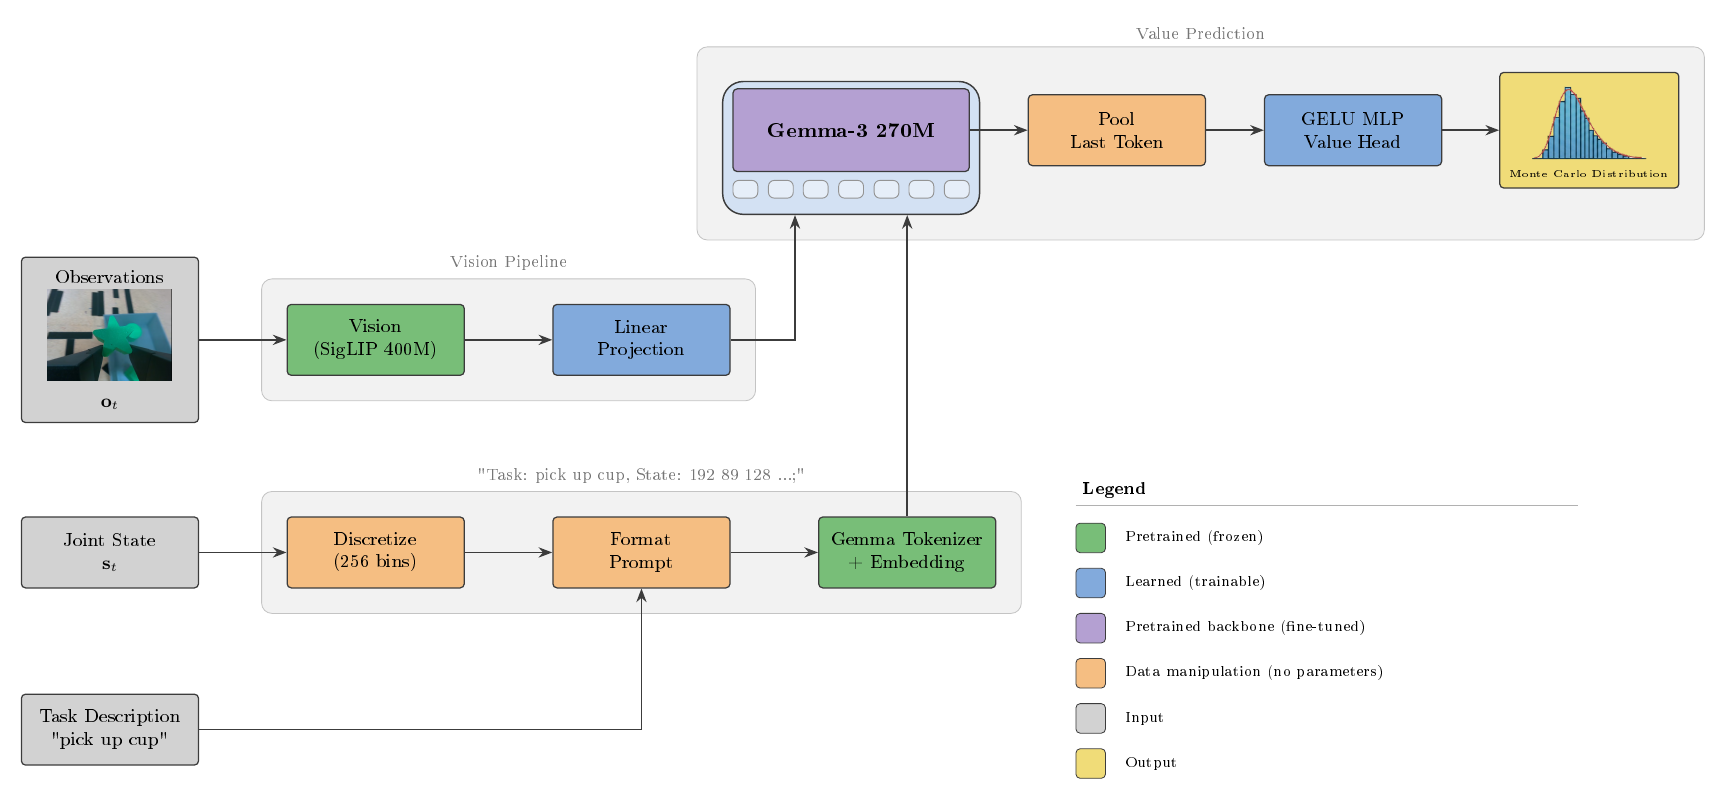
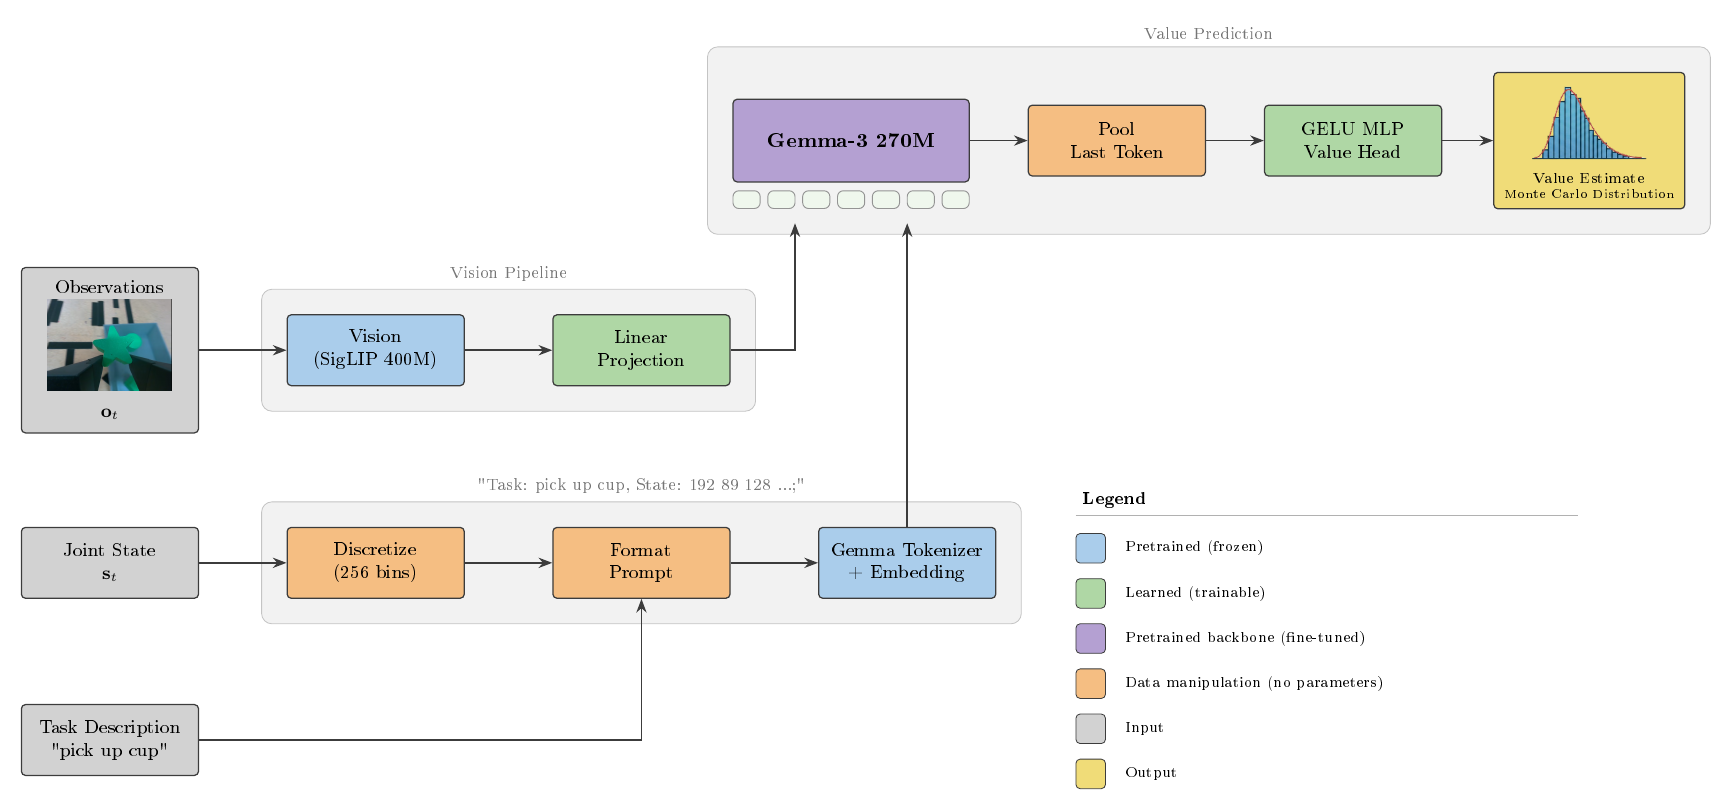
update architecture diagram

diff --git a/docs/diagrams/architecture.tex b/docs/diagrams/architecture.tex
@@ -22,8 +22,8 @@
 % =============================================================================
 % COLOR PALETTE
 % =============================================================================
-\definecolor{pretrainedgreen}{RGB}{120, 190, 120}   % Pretrained (frozen)
-\definecolor{learnedblue}{RGB}{130, 170, 220}        % Learned (trainable)
+\definecolor{pretrainedblue}{RGB}{170, 205, 235}     % Pretrained (frozen)
+\definecolor{learnedgreen}{RGB}{175, 215, 165}       % Learned (trainable)
 \definecolor{functionorange}{RGB}{245, 190, 130}     % Data manipulation (no params)
 \definecolor{inputgray}{RGB}{210, 210, 210}          % Inputs
 \definecolor{backbonepurple}{RGB}{180, 160, 210}     % Pretrained backbone (fine-tuned)
@@ -41,17 +41,12 @@
         line width=0.6pt, font=\small, rounded corners=2pt
     },
     inputbox/.style={base, fill=inputgray},
-    pretrainedbox/.style={base, fill=pretrainedgreen},
-    learnedbox/.style={base, fill=learnedblue},
+    pretrainedbox/.style={base, fill=pretrainedblue},
+    learnedbox/.style={base, fill=learnedgreen},
     functionbox/.style={base, fill=functionorange},
-    tokenframe/.style={
-        draw=arrowblack, fill=learnedblue!35, rounded corners=10pt,
-        minimum width=4.35cm, minimum height=2.25cm,
-        line width=0.7pt
-    },
     tokenpill/.style={
-        draw=arrowblack!55, fill=learnedblue!20,
-        minimum width=0.42cm, minimum height=0.30cm,
+        draw=arrowblack!55, fill=learnedgreen!20,
+        minimum width=0.46cm, minimum height=0.30cm,
         line width=0.45pt, rounded corners=2.8pt
     },
     backbonebox/.style={base, fill=backbonepurple, minimum width=4cm, minimum height=1.4cm, font=\normalsize\bfseries},
@@ -86,17 +81,19 @@
     \node[pretrainedbox] (gemtok) at (18.95, -3.1) {Gemma Tokenizer\\+ Embedding};
 
     % --- Backbone and output ---
-    \node[tokenframe]    (tokenframe) at (18, 3.75) {};
-    \foreach \dx in {-1.79, -1.19, -0.60, 0.00, 0.60, 1.19, 1.79} {
-        \node[tokenpill] at ($(tokenframe.center)+(\dx,-0.70)$) {};
+    \coordinate          (tokenstreamcenter) at (18, 3.75);
+    \node[inner sep=0pt, minimum width=4.00cm, minimum height=0.30cm]
+                         (tokenrow) at ($(tokenstreamcenter)+(0,-0.70)$) {};
+    \foreach \dx in {-1.77, -1.18, -0.59, 0.00, 0.59, 1.18, 1.77} {
+        \node[tokenpill] at ($(tokenrow.center)+(\dx,0)$) {};
     }
     \node[backbonebox]   (gemma)  at (18, 4.05)  {Gemma-3 270M};
     \node[functionbox]   (pool)   at (22.5, 4.05){Pool\\Last Token};
     \node[learnedbox]    (vhead)  at (26.5, 4.05){GELU MLP\\Value Head};
     \node[outputbox, inner sep=5pt, minimum height=0cm, minimum width=0cm] (bins) at (30.5, 4.05)
-        {\includegraphics[width=2cm]{distribution.png}\\[-4pt]{\tiny Monte Carlo Distribution}};
-    \coordinate (visiontokenin) at ($(tokenframe.south)+(-0.95, 0)$);
-    \coordinate (texttokenin) at ($(tokenframe.south)+(0.95, 0)$);
+        {\includegraphics[width=2cm]{distribution.png}\\[-1pt]{\scriptsize Value Estimate}\\[-4pt]{\fontsize{6}{7}\selectfont Monte Carlo Distribution}};
+    \coordinate (visiontokenin) at ($(tokenrow.center)+(-0.95, -0.40)$);
+    \coordinate (texttokenin) at ($(tokenrow.center)+(0.95, -0.40)$);
 
     % =========================================================================
     % EDGES
@@ -130,7 +127,7 @@
               fit=(disc)(format)(gemtok), inner sep=12pt,
               label={[grouplabel]above:"Task: pick up cup, State: 192 89 128 ...;"}] {};
         \node[draw=arrowblack!30, rounded corners=5pt, fill=groupgray!50,
-              fit=(tokenframe)(gemma)(pool)(vhead)(bins), inner sep=12pt,
+              fit=(tokenrow)(gemma)(pool)(vhead)(bins), inner sep=12pt,
               label={[grouplabel]above:Value Prediction}] {};
     \end{scope}
 
@@ -140,12 +137,12 @@
     \node[anchor=north west, font=\footnotesize\bfseries] (ltitle) at (21.8, -1.8) {Legend};
     \draw[arrowblack!40, line width=0.4pt] (ltitle.south west) -- ++(8.5, 0);
 
-    \node[fill=pretrainedgreen, draw=arrowblack, minimum width=0.5cm, minimum height=0.5cm,
+    \node[fill=pretrainedblue, draw=arrowblack, minimum width=0.5cm, minimum height=0.5cm,
           rounded corners=2pt, line width=0.4pt,
           anchor=north west] (l1) at ($(ltitle.south west) + (0, -0.3)$) {};
     \node[font=\scriptsize, right=0.2cm of l1] {Pretrained (frozen)};
 
-    \node[fill=learnedblue, draw=arrowblack, minimum width=0.5cm, minimum height=0.5cm,
+    \node[fill=learnedgreen, draw=arrowblack, minimum width=0.5cm, minimum height=0.5cm,
           rounded corners=2pt, line width=0.4pt, below=0.25cm of l1] (l2) {};
     \node[font=\scriptsize, right=0.2cm of l2] {Learned (trainable)};
 
